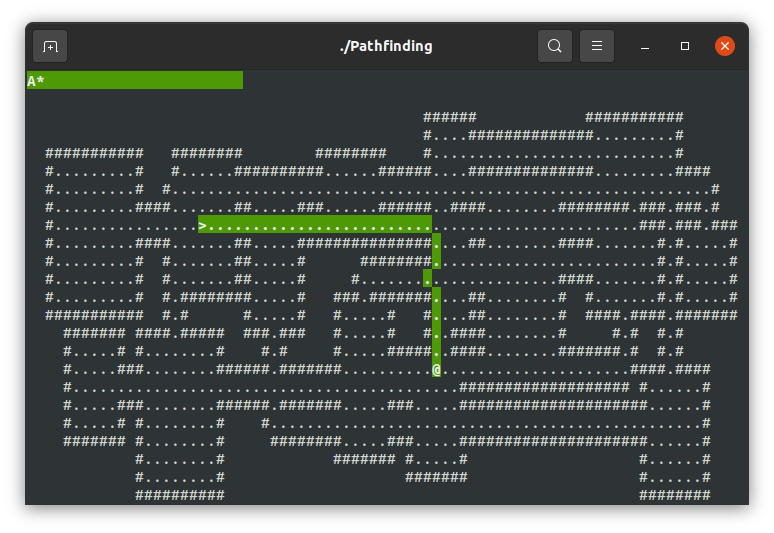
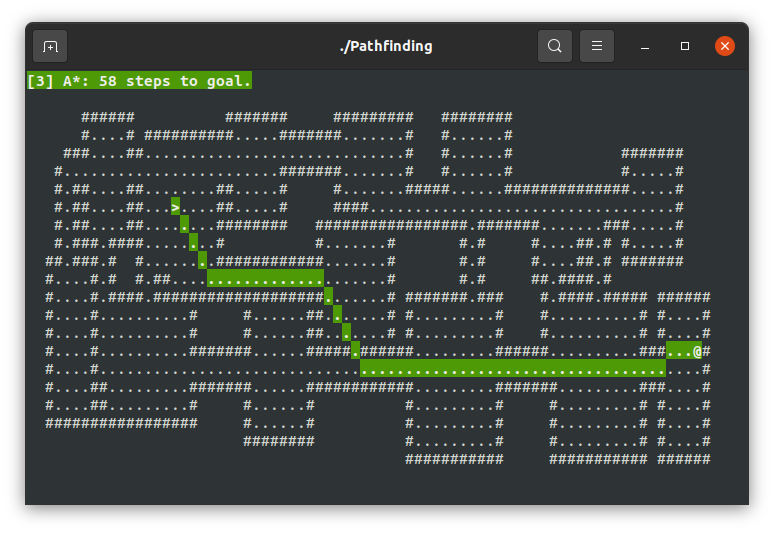
Major improvements to stablity of AStar path
Turns out, weighing diagonal movement at 142 (sqrt(2) * 100) and
cardianal movement at 100 makes a HUGE difference. Added fancy new
screenshots to match.

Changed region(s): [[0.062, 0.2101, 0.9612, 0.9606], [0.124, 0.1201, 0.3411, 0.1801], [0.031, 0.1201, 0.093, 0.1801]]

diff --git a/src/pathfinding.c b/src/pathfinding.c
@@ -19,8 +19,8 @@
 */
 #include <pathfinding.h>
 
-Vec2iList* open_neighbors_at(Vec2i pos, bool checkMonsters) {
-    Vec2iList *results = NULL;
+Vec2iPQ* open_neighbors_at(Vec2i pos, bool checkMonsters) {
+    Vec2iPQ *results = NULL;
     int x, y;
     Vec2i tl,tr,bl,br;
     // Diagonal
@@ -29,27 +29,27 @@ Vec2iList* open_neighbors_at(Vec2i pos, bool checkMonsters) {
     bl = make_vec(pos.x - 1, pos.y + 1);
     br = make_vec(pos.x + 1, pos.y + 1);
     if(!is_blocked(tl) && in_bounds(tl)){
-        push_Vec2i_list(&results, tl);
+        push_Vec2iPQ(&results, tl, 2);
     }
     if(!is_blocked(tr) && in_bounds(tr)){
-        push_Vec2i_list(&results, tr);
+        push_Vec2iPQ(&results, tr, 2);
     }
     if(!is_blocked(bl) && in_bounds(bl)){
-        push_Vec2i_list(&results, bl);
+        push_Vec2iPQ(&results, bl, 2);
     }
     if(!is_blocked(br) && in_bounds(br)){
-        push_Vec2i_list(&results, br);
+        push_Vec2iPQ(&results, br, 2);
     }
                
     // Cardinal
     for(x = pos.x - 1, y = pos.y; x <= pos.x + 1; x += 2) {
         if(!is_blocked(make_vec(x,y)) && in_bounds(make_vec(x,y))) {
-            push_Vec2i_list(&results, make_vec(x,y));
+            push_Vec2iPQ(&results, make_vec(x,y), 1);
         }
     }
     for(y = pos.y - 1, x = pos.x; y <= pos.y + 1; y += 2) {
         if(!is_blocked(make_vec(x,y)) && in_bounds(make_vec(x,y))) {
-            push_Vec2i_list(&results, make_vec(x,y));
+            push_Vec2iPQ(&results, make_vec(x,y), 1);
         }
     }
     /*
@@ -72,9 +72,45 @@ int movement_cost_at(Vec2i pos) {
     /* This function will check tile flags, returning movment costs. For
      * instance, a closed door has a movement cost of 2, since it takes 1 turn
      * to open the door. */
-    return 1;
+    return 100;
 }
 
+int movement_cost_to(Vec2i a, Vec2i b) {
+    /*
+     * . 1 2 3
+     * 1 . b .
+     * 2 a . .
+     * 3 . . . 
+     *
+     * a - b = (1,2) - (2,1) = (-1,1)
+     *
+     * . 1 2 3
+     * 1 . b .
+     * 2 . a .
+     * 3 . . . 
+     * a - b = (2,2) - (2,1) = (0,1)
+     *
+     * . 1 2 3
+     * 1 . b a
+     * 2 . . .
+     * 3 . . . 
+     * a - b = (3,1) - (2,1) = (1,0)
+     *
+     * Looking for change in BOTH x and y when subtracting the vectors. A single
+     * diagonal step will also end up as (-1,-1) (-1,1),(1,1), (1,-1)
+     */
+    Vec2i sub = subtract_vec(a,b);
+    static Vec2i tl = {-1,-1};// make_vec(-1,-1);
+    static Vec2i tr = {1,-1}; //make_vec(1,-1);
+    static Vec2i bl = {-1,1}; //make_vec(-1,1);
+    static Vec2i br = {1,1}; //make_vec(1,1);
+    if (eq_vec(sub,tl) || eq_vec(sub,tr) ||
+            eq_vec(sub,bl) || eq_vec(sub,br)) {
+        return 142;//sqrt(2);
+    } else {
+        return 100;
+    }
+}
 /* Note to self: Any modifications to the following functions should be
  * reflected in the GoblinCaves project */
 Vec2iList* bh_line(Vec2i start, Vec2i finish) {
@@ -194,7 +230,8 @@ Vec2iList* breadth_first_search(Vec2i start, bool monsterblock) {
      * in the future. */
     Vec2iList *reached = create_Vec2i_list(start);
     Vec2iList *frontier = create_Vec2i_list(start);
-    Vec2iList *neighbors = NULL;
+    Vec2iPQ *neighbors = NULL;
+    Vec2iPQ *tmp = NULL;
     int count = 0;
     int i = 0;
     Vec2i cur = NULLVEC;
@@ -202,26 +239,27 @@ Vec2iList* breadth_first_search(Vec2i start, bool monsterblock) {
     while(frontier) {
         cur = pop_Vec2i_list(&frontier);
         neighbors = open_neighbors_at(cur, monsterblock);
-        count = count_Vec2i_list(neighbors);
-        for(i = 0; i < count; i++) {
-            if(!Vec2i_list_contains(reached, neighbors[i].item)) {
-                push_Vec2i_list(&reached, neighbors[i].item);
-                push_Vec2i_list(&frontier, neighbors[i].item);
+        //count = count_Vec2i_list(neighbors);
+        //for(i = 0; i < count; i++) {
+        for(tmp = neighbors; tmp; tmp = tmp->next) {
+            if(!Vec2i_list_contains(reached, tmp->item)) {
+                push_Vec2i_list(&reached, tmp->item);
+                push_Vec2i_list(&frontier, tmp->item);
             }
         }
-        destroy_Vec2i_list(&neighbors);
+        destroy_Vec2iPQ(&neighbors);
         neighbors = NULL;
     }
 
     destroy_Vec2i_list(&frontier);
-    destroy_Vec2i_list(&neighbors);
+    destroy_Vec2iPQ(&neighbors);
     return reached;
 }
 
 Vec2iHT* dijkstra_map(Vec2i start, bool monsterblock) {
     Vec2iPQ *frontier = create_Vec2iPQ(start, 0);
-    Vec2iList *neighbors = NULL;
-    Vec2iList *tmp = NULL;
+    Vec2iPQ *neighbors = NULL;
+    Vec2iPQ *tmp = NULL;
     Vec2iHT *camefrom = create_Vec2iHT(5000); 
     Vec2iHT *costSoFar = create_Vec2iHT(5000); 
     Vec2i cost;
@@ -242,7 +280,7 @@ Vec2iHT* dijkstra_map(Vec2i start, bool monsterblock) {
         for(tmp = neighbors; tmp; tmp = tmp->next) {
             next = tmp->item;
             cost = search_Vec2iHT(costSoFar, cur);
-            newcost = cost.x + movement_cost_at(next);
+            newcost = cost.x + 1;//movement_cost_to(cur,next);//movement_cost_at(next);
             cost = search_Vec2iHT(costSoFar, next);
             if(vec_null(search_Vec2iHT(costSoFar, next)) || 
                     (newcost < cost.x)) {
@@ -252,13 +290,13 @@ Vec2iHT* dijkstra_map(Vec2i start, bool monsterblock) {
                 insert_Vec2iHT(camefrom, next, cur);
             }
         }
-        destroy_Vec2i_list(&neighbors);
+        destroy_Vec2iPQ(&neighbors);
         neighbors = NULL;
     }
     //write_htable_csv(costSoFar,start,make_vec(0,0));
     write_dijkstra_map(costSoFar,start);
     destroy_Vec2iPQ(&frontier);
-    destroy_Vec2i_list(&neighbors);
+    destroy_Vec2iPQ(&neighbors);
     destroy_Vec2iHT(camefrom);
     return costSoFar;
 }
@@ -307,11 +345,12 @@ Vec2iList* bfs_path(Vec2i start, Vec2i goal, bool monsterblock) {
     /* Best First Search with early exit, that returns a path from start
      * goal */
     Vec2iList *frontier = create_Vec2i_list(start);
-    Vec2iList *neighbors = NULL;
-    Vec2iList *tmp = NULL;
+    Vec2iPQ *neighbors = NULL;
+    Vec2iPQ *tmp = NULL;
     Vec2iHT *camefrom = create_Vec2iHT(5000); 
     Vec2i cur = NULLVEC;
     Vec2i next = NULLVEC;
+    Vec2iList *result = NULL;
 
     insert_Vec2iHT(camefrom, start, start);
     while(frontier) {
@@ -328,24 +367,25 @@ Vec2iList* bfs_path(Vec2i start, Vec2i goal, bool monsterblock) {
                 insert_Vec2iHT(camefrom, next, cur);
             }
         }
-        destroy_Vec2i_list(&neighbors);
+        destroy_Vec2iPQ(&neighbors);
         neighbors = NULL;
     }
     destroy_Vec2i_list(&frontier);
-    destroy_Vec2i_list(&neighbors);
-    tmp = construct_path(camefrom, start, goal);
+    destroy_Vec2iPQ(&neighbors);
+    result = construct_path(camefrom, start, goal);
     //write_htable_csv(camefrom, start, goal);
     destroy_Vec2iHT(camefrom);
-    return tmp;
+    return result;
 }
 
 Vec2iList* gbfs_path(Vec2i start, Vec2i goal, bool monsterblock) {
     /* Greedy BFS with early exit, returns path from start to goal.
      * Heuristic: Manhattan Distance */
     Vec2iPQ *frontier = create_Vec2iPQ(start, 0);
-    Vec2iList *neighbors = NULL;
-    Vec2iList *tmp = NULL;
+    Vec2iPQ *neighbors = NULL;
+    Vec2iPQ *tmp = NULL;
     Vec2iHT *camefrom = create_Vec2iHT(5000); 
+    Vec2iList *result = NULL;
 
     int p = 0;
     Vec2i cur = NULLVEC;
@@ -367,25 +407,26 @@ Vec2iList* gbfs_path(Vec2i start, Vec2i goal, bool monsterblock) {
                 insert_Vec2iHT(camefrom, next, cur);
             }
         }
-        destroy_Vec2i_list(&neighbors);
+        destroy_Vec2iPQ(&neighbors);
         neighbors = NULL;
     }
     destroy_Vec2iPQ(&frontier);
-    destroy_Vec2i_list(&neighbors);
-    tmp = construct_path(camefrom, start, goal);
+    destroy_Vec2iPQ(&neighbors);
+    result = construct_path(camefrom, start, goal);
     //write_explored_map(camefrom, start, goal);
     //write_htable_csv(camefrom, start, goal);
     destroy_Vec2iHT(camefrom);
-    return tmp;
+    return result;
 }
 
 Vec2iList* astar_path(Vec2i start, Vec2i goal, bool monsterblock) {
     Vec2iPQ *frontier = create_Vec2iPQ(start, 0);
-    Vec2iList *neighbors = NULL;
-    Vec2iList *tmp = NULL;
+    Vec2iPQ *neighbors = NULL;
+    Vec2iPQ *tmp = NULL;
     Vec2iHT *camefrom = create_Vec2iHT(5000); 
     Vec2iHT *costSoFar = create_Vec2iHT(5000); 
     Vec2i cost;
+    Vec2iList *result = NULL;
 
     int p = 0;
     int newcost = 0;
@@ -405,7 +446,7 @@ Vec2iList* astar_path(Vec2i start, Vec2i goal, bool monsterblock) {
         for(tmp = neighbors; tmp; tmp = tmp->next) {
             next = tmp->item;
             cost = search_Vec2iHT(costSoFar, cur);
-            newcost = cost.x + movement_cost_at(next);
+            newcost = cost.x + movement_cost_to(cur,next); //movement_cost_at(next);
             cost = search_Vec2iHT(costSoFar, next);
             if(vec_null(search_Vec2iHT(costSoFar, next)) || 
                     (newcost < cost.x)) {
@@ -415,16 +456,16 @@ Vec2iList* astar_path(Vec2i start, Vec2i goal, bool monsterblock) {
                 insert_Vec2iHT(camefrom, next, cur);
             }
         }
-        destroy_Vec2i_list(&neighbors);
+        destroy_Vec2iPQ(&neighbors);
         neighbors = NULL;
     }
-    tmp = construct_path(camefrom, start, goal);
+    result = construct_path(camefrom, start, goal);
     //write_dijkstra_map(costSoFar, start);
     //write_explored_map(costSoFar, start, goal);
     destroy_Vec2iPQ(&frontier);
-    destroy_Vec2i_list(&neighbors);
+    destroy_Vec2iPQ(&neighbors);
     destroy_Vec2iHT(costSoFar);
     destroy_Vec2iHT(camefrom);
-    return tmp;
+    return result;
 }
 

diff --git a/include/pathfinding.h b/include/pathfinding.h
@@ -43,8 +43,9 @@
 /**********************
  * Function Definitions
  **********************/
-Vec2iList* open_neighbors_at(Vec2i pos, bool checkMonsters); 
+Vec2iPQ* open_neighbors_at(Vec2i pos, bool checkMonsters); 
 int movement_cost_at(Vec2i pos);
+int movement_cost_to(Vec2i a, Vec2i b);
 
 Vec2iList* bh_line(Vec2i start, Vec2i finish);
 void bh_line_add(Vec2iList **head, Vec2i pos); 
